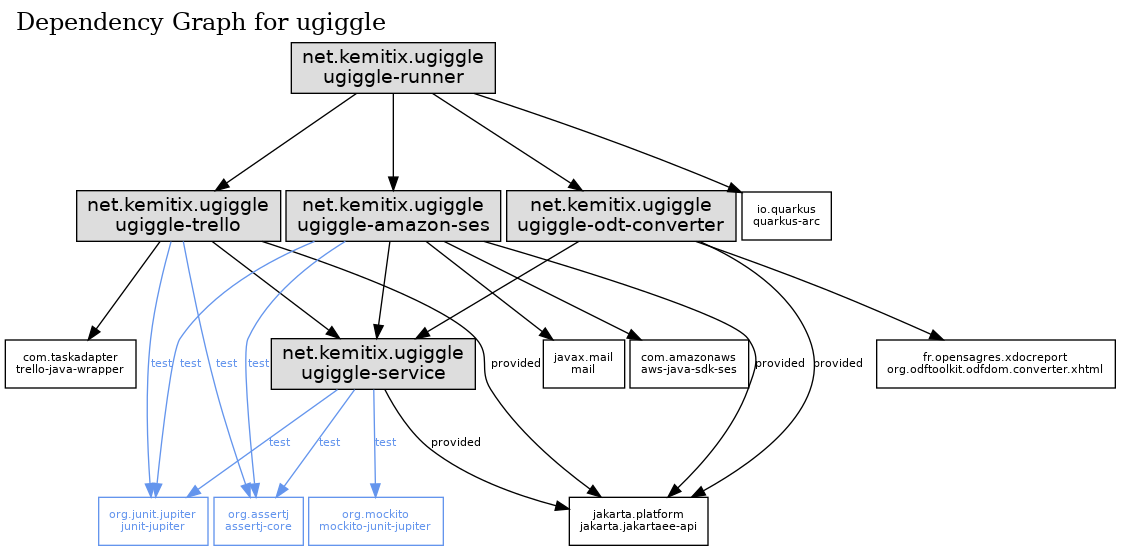
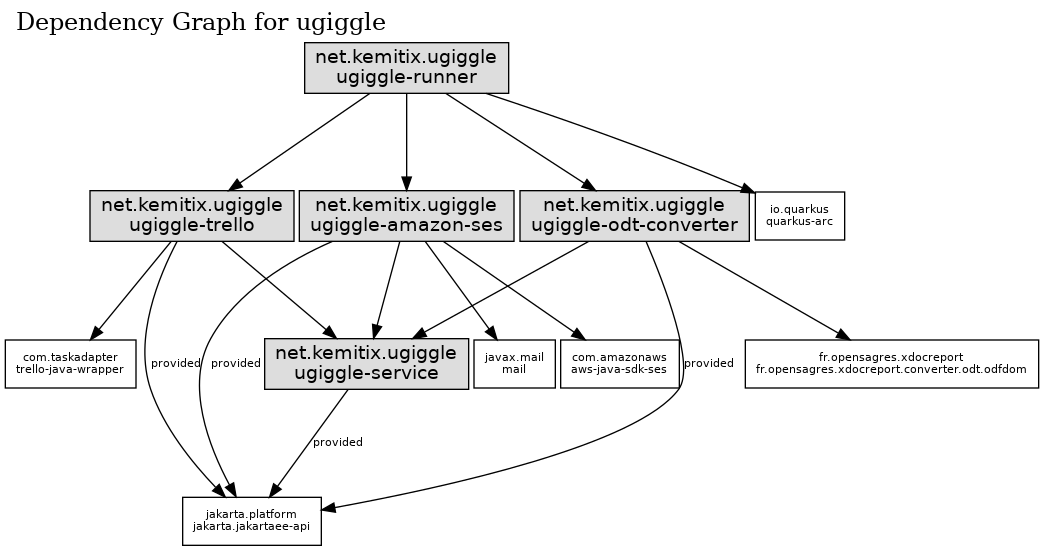
Upgrade odfdom.converter from 1.0.6 to 2.0.2 (#17)

diff --git a/odt-converter/src/main/java/net/kemitix/ugiggle/converter/odt/OdtToHtmlAttachmentConverter.java b/odt-converter/src/main/java/net/kemitix/ugiggle/converter/odt/OdtToHtmlAttachmentConverter.java
@@ -1,11 +1,11 @@
 package net.kemitix.ugiggle.converter.odt;
 
+import fr.opensagres.odfdom.converter.xhtml.XHTMLConverter;
+import fr.opensagres.odfdom.converter.xhtml.XHTMLOptions;
 import net.kemitix.ugiggle.service.AttachmentDirectory;
 import net.kemitix.ugiggle.service.Attachment;
 import net.kemitix.ugiggle.service.AttachmentConverter;
 import net.kemitix.ugiggle.service.LocalAttachment;
-import org.odftoolkit.odfdom.converter.xhtml.XHTMLConverter;
-import org.odftoolkit.odfdom.converter.xhtml.XHTMLOptions;
 import org.odftoolkit.odfdom.doc.OdfTextDocument;
 
 import javax.enterprise.context.ApplicationScoped;
